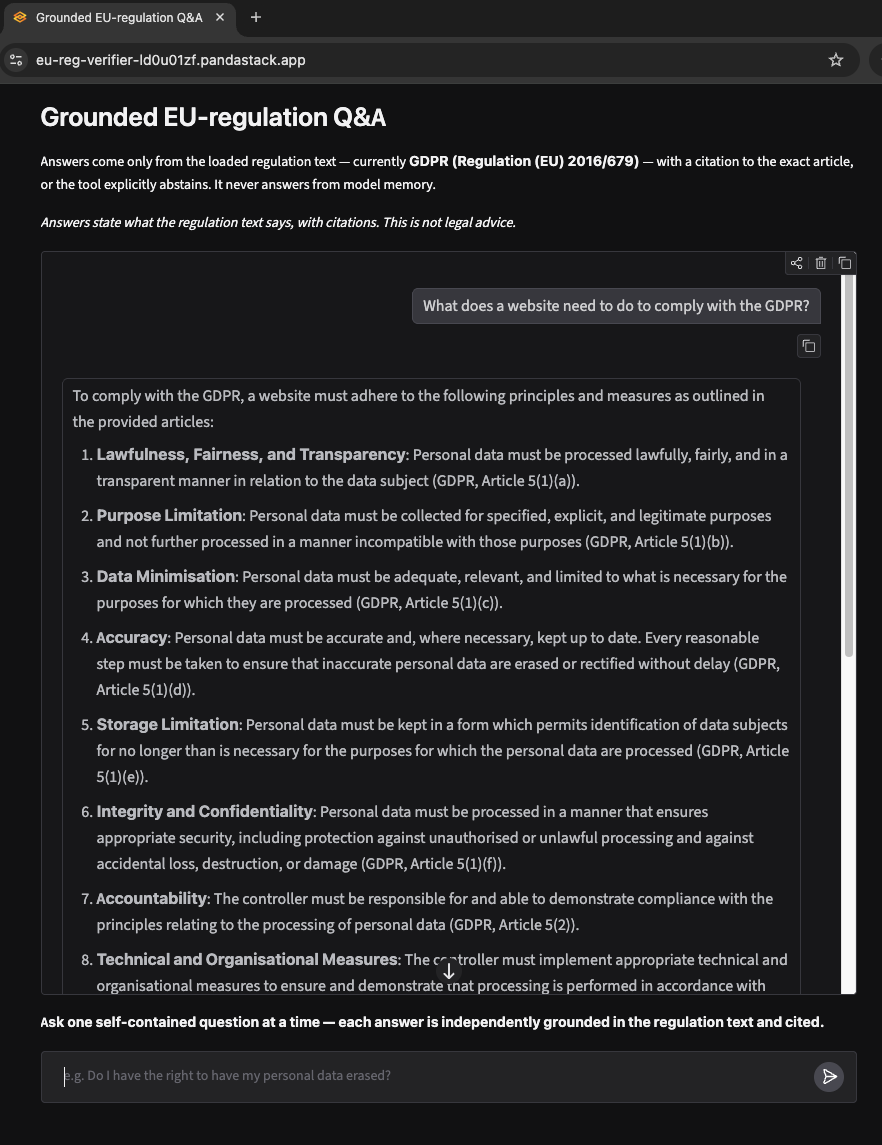
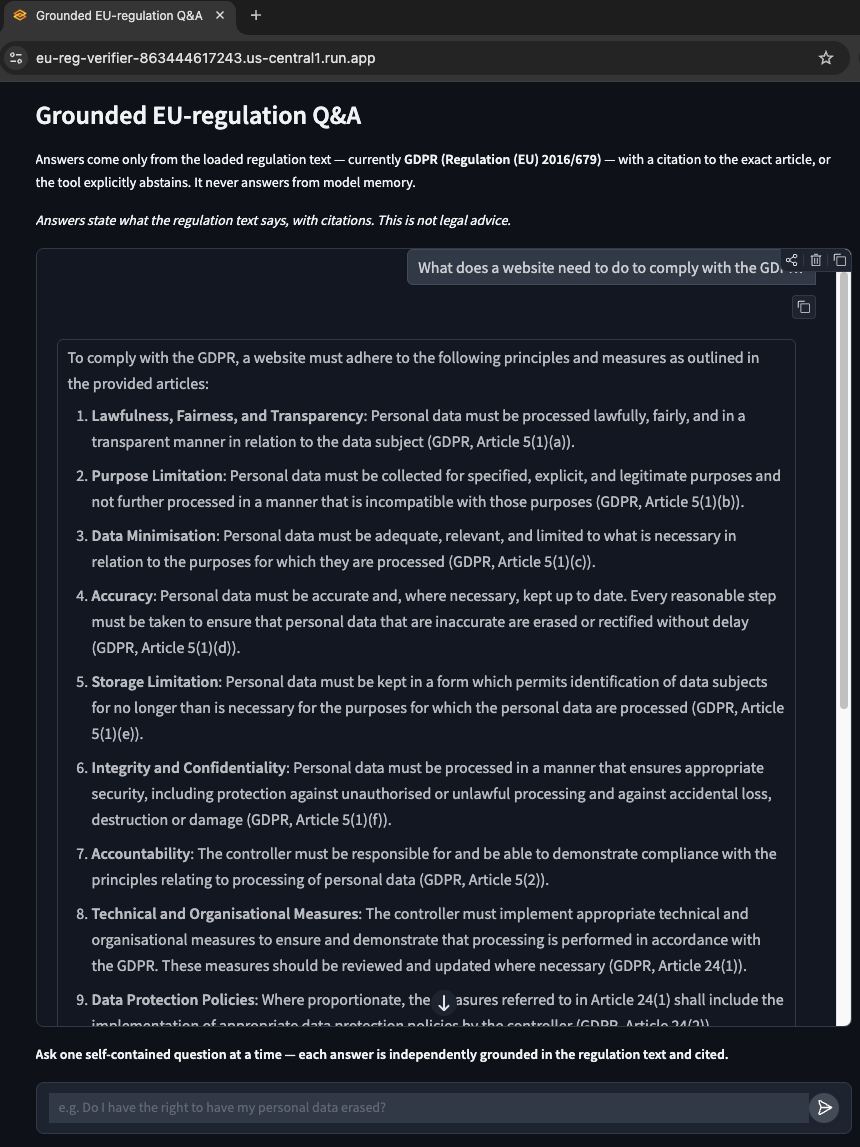
update readme for cloud run hosting and new screenshot

Changed region(s): [[0.0302, 0.0917, 0.9977, 1.0], [0.0, 0.0, 0.4233, 0.0611], [0.9372, 0.0306, 0.9674, 0.0611]]

diff --git a/README.md b/README.md
@@ -5,7 +5,7 @@ article it comes from, or a clear "the text doesn't cover that." Every answer
 is drawn from the regulation itself and shows its source, so you can trust it
 and check it in seconds.
 
-**[Live demo](https://eu-reg-verifier-863444617243.us-central1.run.app)** *(free hosting, password protected)*
+**[Live demo](https://eu-reg-verifier-863444617243.us-central1.run.app)** *(Cloud Run hosting, password protected)*
 
 ![Screenshot of the app answering a GDPR compliance question with article citations](assets/screenshot.png)
 
